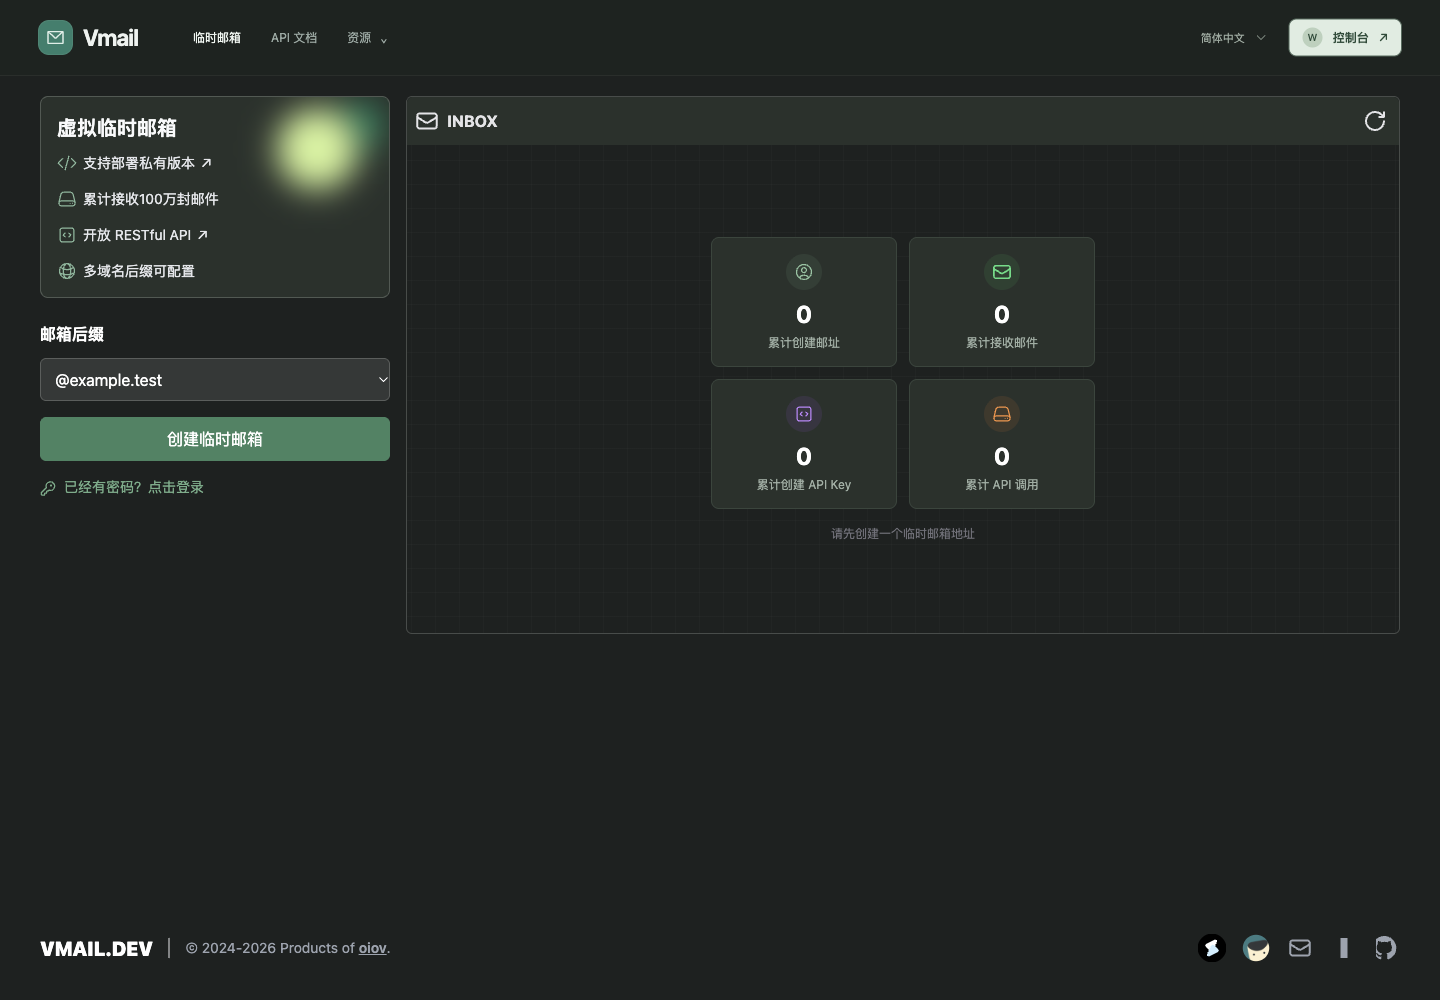
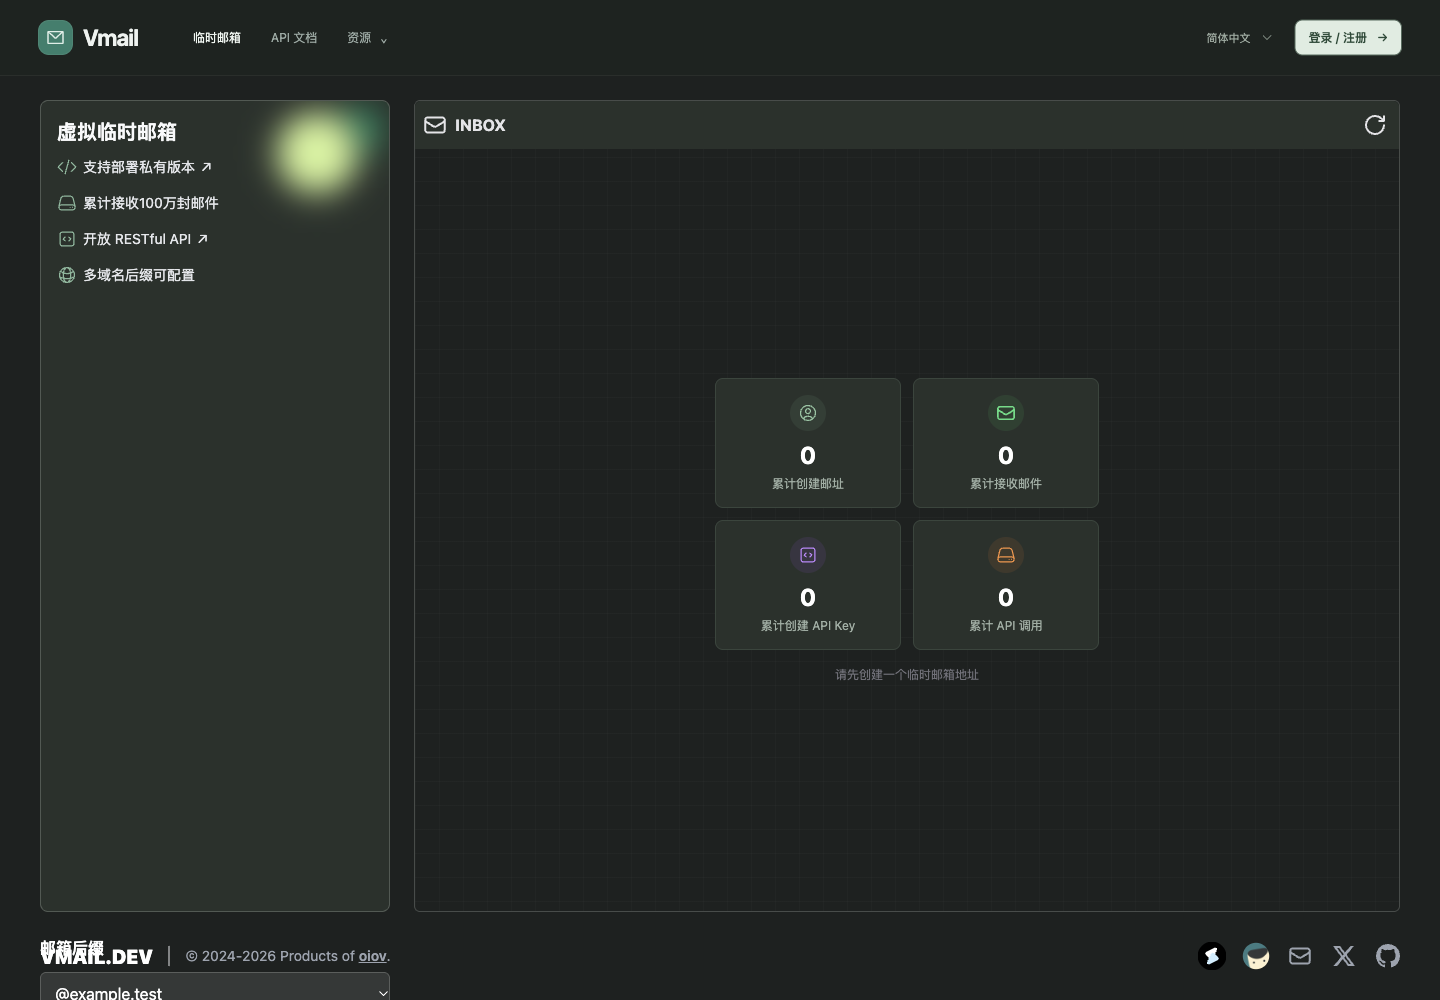
fix: fill available homepage height on large screens

diff --git a/frontend/src/index.css b/frontend/src/index.css
@@ -305,3 +305,14 @@
 .public-app [class*="text-zinc-400"]{color:#9eaea3}
 .public-app [class*="bg-cyan-400"]{color:#203d2d}
 .public-app [class*="bg-cyan-600"]{background-color:#438461}
+
+/* Let the inbox use the viewport instead of leaving a fixed-height panel above the footer. */
+.public-app:has(.home-workspace){min-height:100svh}
+.home-workspace{display:flex;flex-direction:column;gap:24px;margin:96px 24px 0;flex:1;min-width:0}
+.home-inbox{display:flex;flex-direction:column;min-width:0;width:100%;flex:1}
+.home-inbox .mail-panel{display:flex;flex-direction:column;flex:1;min-width:0}
+.home-inbox .mail-panel-body{min-height:488px}
+.home-inbox .mail-panel-body>div:only-child{flex:1}
+.public-app:has(.home-workspace)>.public-footer{margin-top:0;margin-bottom:0;padding-top:32px;padding-bottom:32px;flex-shrink:0}
+@media(min-width:768px){.home-workspace{flex-direction:row;align-items:stretch;margin:100px 40px 0}}
+@media(max-width:767px){.home-workspace{margin:92px 18px 0;gap:28px}.home-inbox .mail-panel-body{min-height:360px}.public-app:has(.home-workspace)>.public-footer{padding-top:28px;padding-bottom:28px}}

diff --git a/frontend/src/components/MailList.tsx b/frontend/src/components/MailList.tsx
@@ -168,7 +168,7 @@ export function MailList({
   };
 
   return (
-    <div className="rounded-md border border-cyan-50/20 text-white">
+    <div className="mail-panel rounded-md border border-cyan-50/20 text-white">
       {/* 邮件列表头部 */}
       <div className="w-full rounded-t-md p-2 flex items-center bg-zinc-800 text-zinc-200 gap-2">
         <div className="flex items-center justify-start gap-2 font-bold">
@@ -267,8 +267,8 @@ export function MailList({
       {/* fix: 当显示详情时，移除 grids 背景和 h-[488px] 的高度限制 */}
       <div
         className={clsx(
-          "flex flex-col flex-1 overflow-y-auto p-2",
-          !selectedEmail && "grids h-[488px]",
+          "mail-panel-body flex flex-col flex-1 overflow-y-auto p-2",
+          !selectedEmail && "grids",
         )}>
         {renderBody()}
       </div>

diff --git a/frontend/src/pages/Home.tsx b/frontend/src/pages/Home.tsx
@@ -399,7 +399,7 @@ export function Home() {
   };
 
   return (
-    <div className="h-full flex flex-col gap-4 md:flex-row justify-center items-start mt-24 mx-6 md:mx-10">
+    <div className="home-workspace">
       <PasswordModal onLogin={handleLogin} isLoggingIn={isLoggingIn} />
       <SenderModal />
       {selectedEmail && (
@@ -618,7 +618,7 @@ export function Home() {
 
       {/* 右侧邮件列表或邮件详情 */}
       {/* refactor: 始终渲染 MailList，并通过 selectedEmail prop 控制其内部显示逻辑 */}
-      <div className="w-full flex-1 overflow-hidden">
+      <div className="home-inbox">
         <MailList
           isAddressCreated={!!address}
           emails={emails}

diff --git a/frontend/src/components/Footer.tsx b/frontend/src/components/Footer.tsx
@@ -9,7 +9,7 @@ import WrdoLogo from "./icons/Wrdo.tsx";
  */
 export function Footer() {
   return (
-    <div className="text-white w-full mt-auto flex flex-col items-center justify-between px-5 pt-16 mb-10 md:px-10 mx-auto sm:flex-row">
+    <div className="public-footer text-white w-full mt-auto flex flex-col items-center justify-between px-5 pt-16 mb-10 md:px-10 mx-auto sm:flex-row">
       <Link to="/" className="text-xl font-black leading-none select-none logo">
         VMAIL.DEV
       </Link>{" "}
